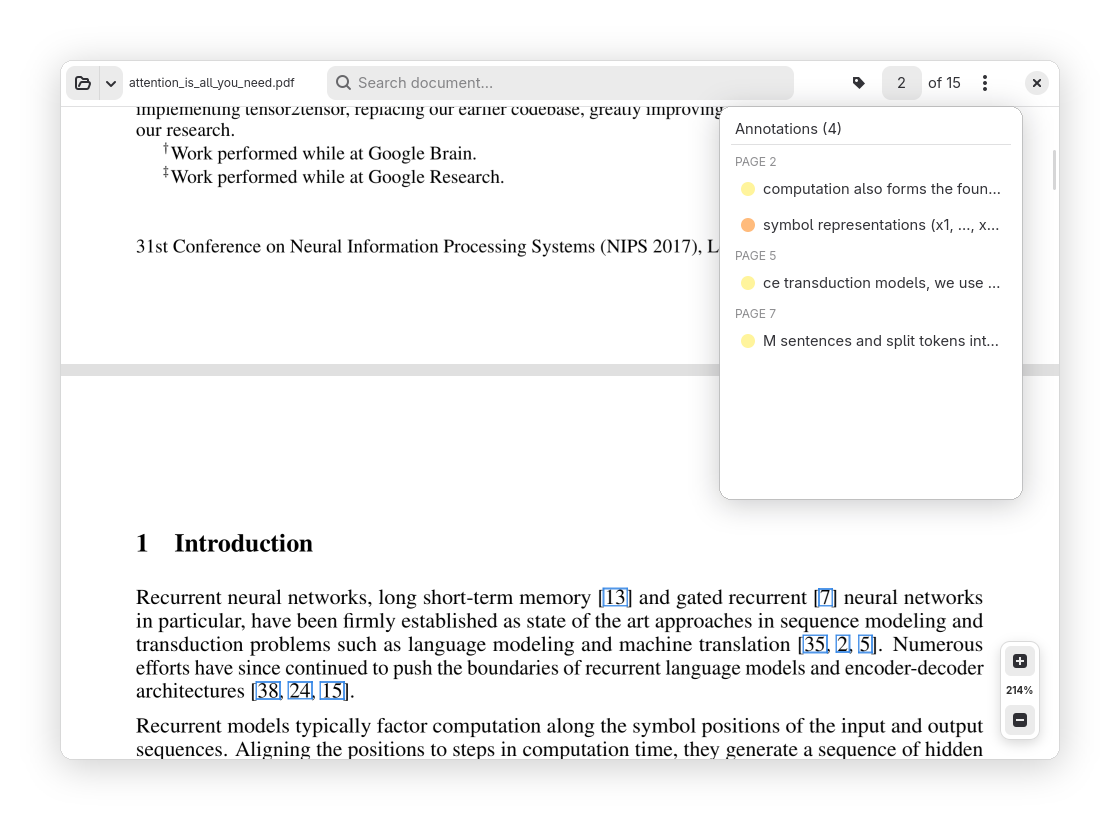
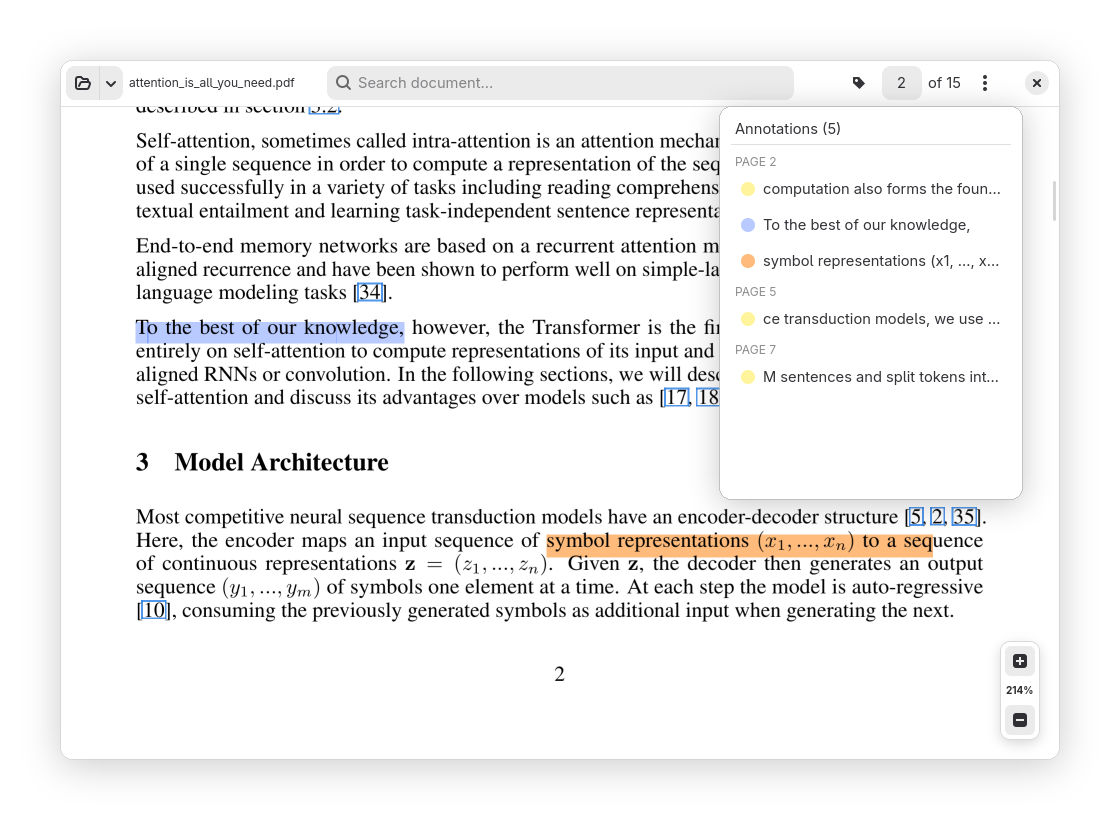
chore: updated screenshots

diff --git a/scripts/generate_screenshots.py b/scripts/generate_screenshots.py
@@ -46,7 +46,7 @@ TASKS = [
         ATTENTION_PDF,
         {
             "zoom": 2.14,
-            "scroll_y": 1450,
+            "scroll_y": 2750,
             "annotations_popover": True,
             "highlights": [
                 {
